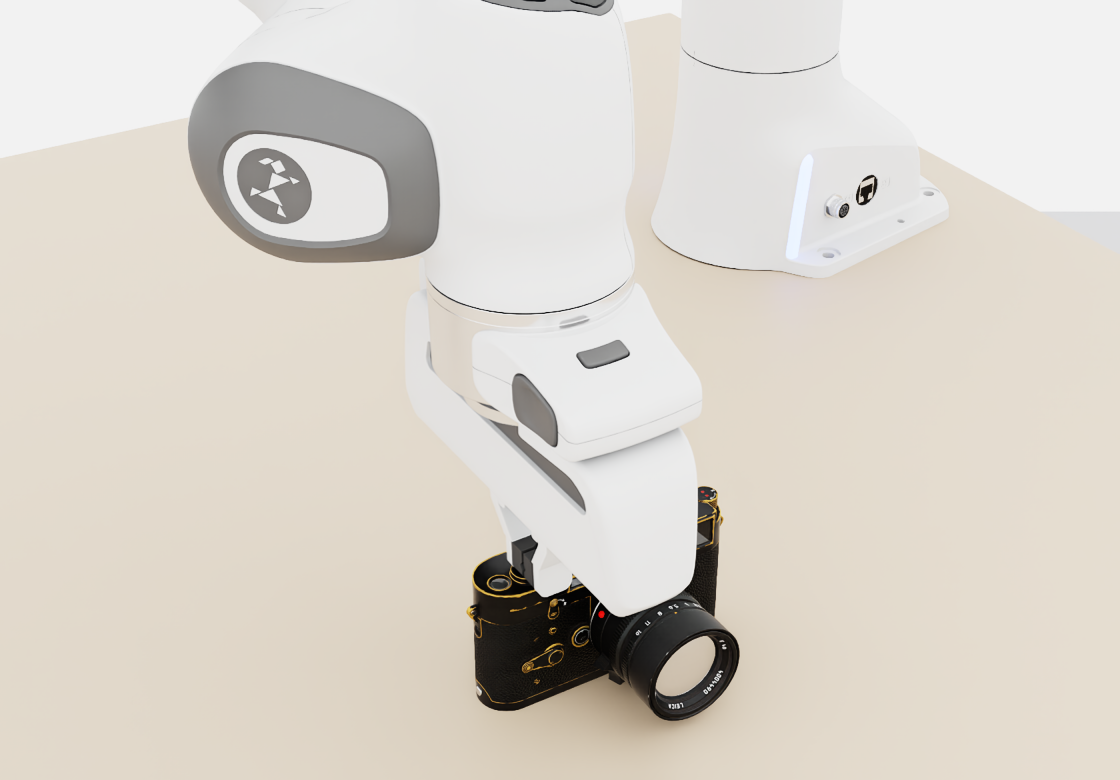
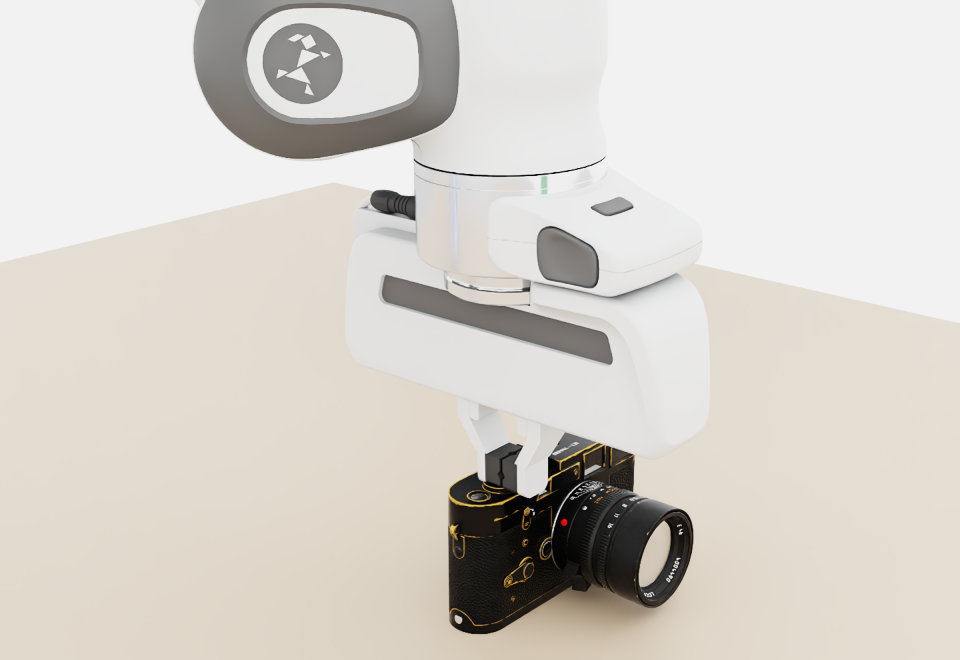
docs: show the shutter press before and after

diff --git a/README.md b/README.md
@@ -32,9 +32,11 @@ In `Bimanual-CameraShutter-Franka`, the left arm holds and aims the camera at a 
 
 ![Two Franka Panda arms with parallel grippers facing each other across the Isaac Lab worktable](docs/images/readme/franka-panda-workcell.png)
 
-| Camera prop in Blender | Parallel gripper pressing the shutter in Isaac Lab |
-| --- | --- |
-| ![Camera 01 rangefinder with the lens and shutter button visible](docs/images/readme/camera-prop.png) | ![Close-up of the Franka Panda gripper pressing the camera's shutter button](docs/images/readme/shutter-press.png) |
+The right gripper closes as it approaches the shutter from above, then lowers onto the button.
+
+| Camera prop in Blender | Before pressing | Shutter pressed |
+| --- | --- | --- |
+| ![Camera 01 rangefinder with its shutter button visible](docs/images/readme/camera-prop.png) | ![Closed gripper hovering above the shutter button in Isaac Lab](docs/images/readme/shutter-approach.png) | ![The same gripper lowered onto the shutter button in Isaac Lab](docs/images/readme/shutter-press.png) |
 
 See the action and observation layouts in the [task configuration](sim/tasks/camera_shutter.py).
 
